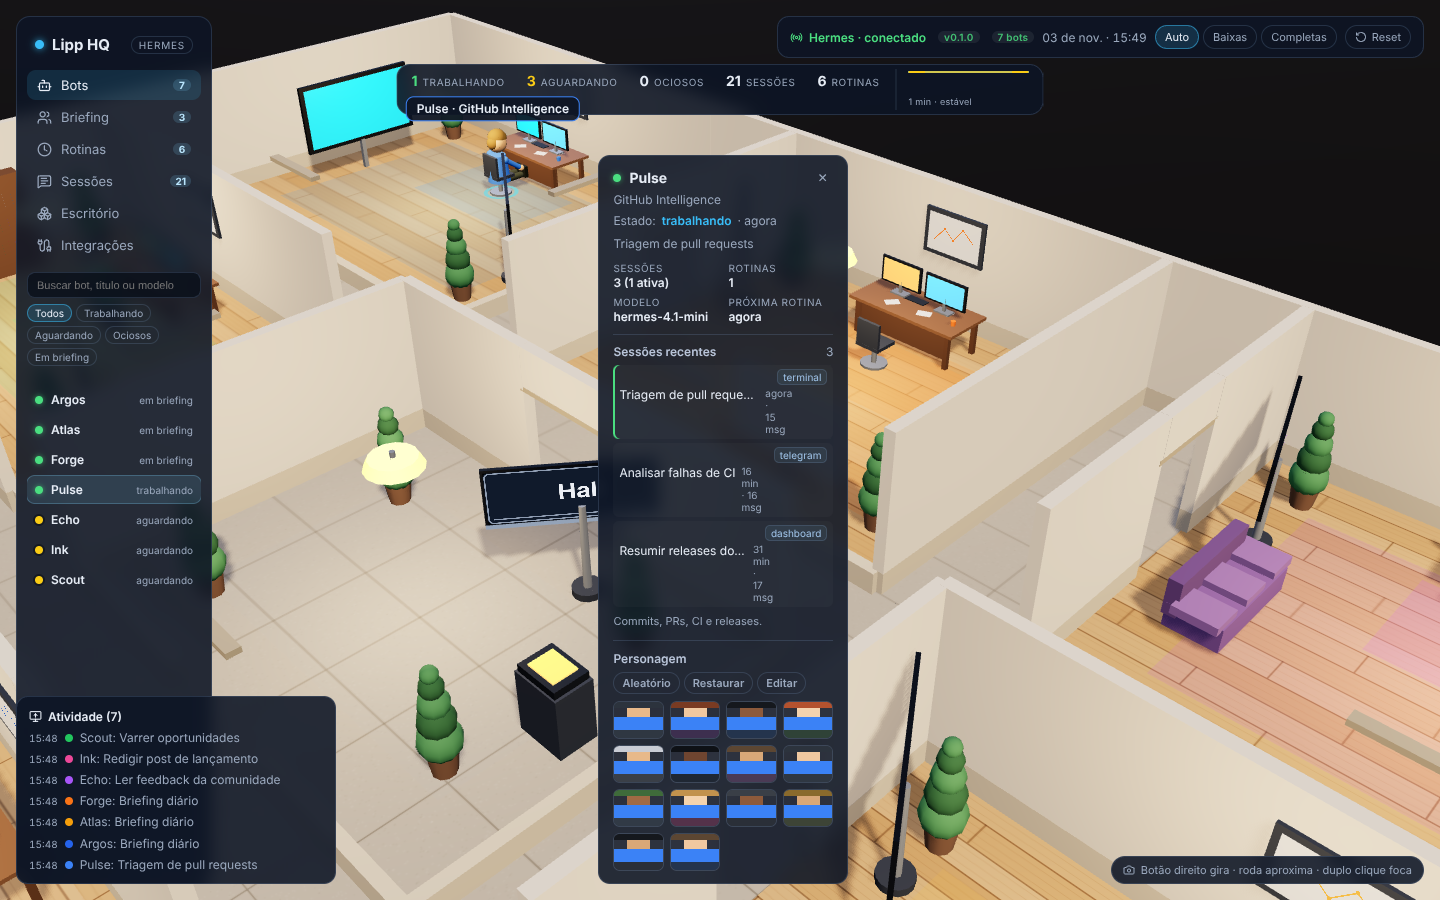
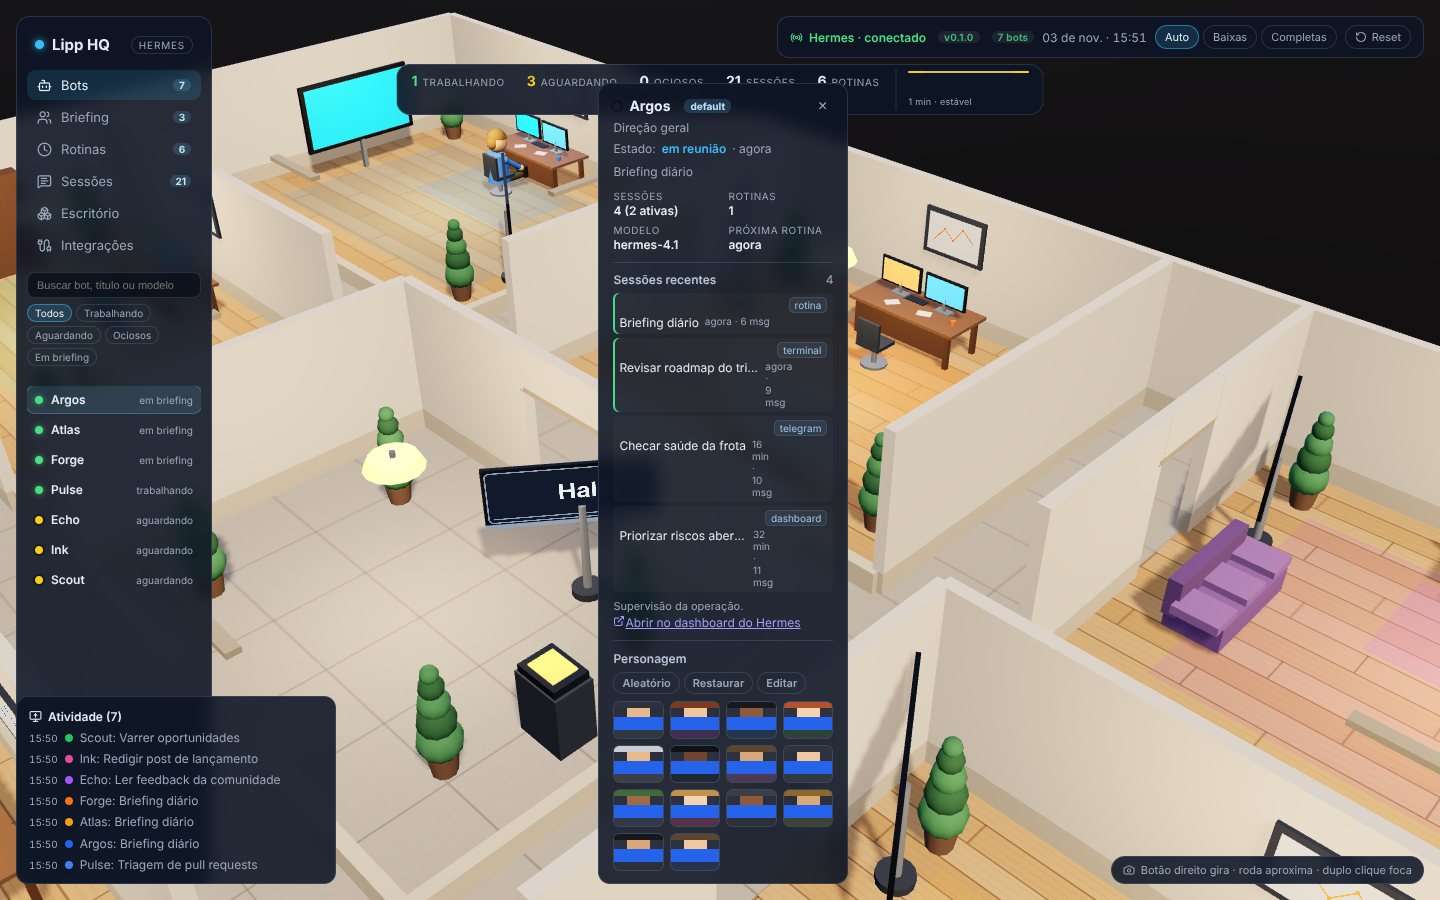
feat(painel): link para o dashboard do Hermes no perfil do bot
Cada bot agora tem "Abrir no dashboard do Hermes", que leva ao dashboard já
escopado no profile dele (`?profile=`), em aba nova com noopener/noreferrer.

Depende de `HERMES_DASHBOARD_URL` e do modo ao vivo: sem URL configurada o link
não aparece, porque link que não abre é pior que link ausente. Reaproveita o
`useGatewayStatus` do diagnóstico, então não faz requisição extra.

Fecha o item antigo do backlog ("abrir no OpenMausBot"), que ficou obsoleto com a
troca de fonte.

diff --git a/lipp-hq-world/src/components/hud/Hud.tsx b/lipp-hq-world/src/components/hud/Hud.tsx
@@ -5,6 +5,7 @@ import {
   Cable,
   Camera,
   Clock,
+  ExternalLink,
   MessageSquareText,
   MonitorUp,
   Users,
@@ -836,6 +837,28 @@ function CharacterEditor({ agentId, base }: { agentId: string; base: { color: st
   );
 }
 
+/**
+ * Link para o dashboard do Hermes com o escopo do perfil daquele bot.
+ *
+ * `?profile=` é o parâmetro que o próprio dashboard lê para abrir no perfil
+ * certo (apps/desktop …/use-gateway-boot-webapp-profile). Sem URL de dashboard
+ * configurada, não existe link — melhor ausente que quebrado.
+ */
+function DashboardLink({ botId }: { botId: string }) {
+  const status = useGatewayStatus();
+  const dataSource = useHQStore((state) => state.dataSource);
+  if (dataSource !== "live" || !status?.dashboardUrl) return null;
+
+  const base = status.dashboardUrl.replace(/\/+$/, "");
+  const href = `${base}/?profile=${encodeURIComponent(botId)}`;
+  return (
+    <a className="panel-link" href={href} target="_blank" rel="noreferrer noopener">
+      <ExternalLink size={12} aria-hidden />
+      Abrir no dashboard do Hermes
+    </a>
+  );
+}
+
 function BotPanel({ bot }: { bot: BotSnapshot }) {
   const clearSelection = useHQStore((state) => state.clearSelection);
   const fleet = useHQStore((state) => state.fleet);
@@ -890,6 +913,7 @@ function BotPanel({ bot }: { bot: BotSnapshot }) {
         </p>
       )}
       {notice && !fleet?.stale && <p className="panel-warn">{notice}</p>}
+      <DashboardLink botId={bot.id} />
       <CharacterEditor
         agentId={bot.id}
         base={sceneAgentsFromFleet(fleet).find((sceneAgent) => sceneAgent.id === bot.id) ?? { color: "#2563eb" }}

diff --git a/lipp-hq-world/docs/HERMES.md b/lipp-hq-world/docs/HERMES.md
@@ -64,6 +64,17 @@ fingir recência.
 
 A origem usada pelo fixture segue `KNOWN_SOURCES`
 (`hermes_cli/session_lost_and_found.py`): `cli`, `telegram`, `dashboard`, `cron`.
+## Abrir no dashboard
+
+O painel do bot tem o link "Abrir no dashboard do Hermes", que aponta para
+`<HERMES_DASHBOARD_URL>/?profile=<nome do bot>` — `profile` é o parâmetro que o
+próprio dashboard lê para abrir escopado naquele profile
+(`apps/desktop/src/app/gateway/hooks/use-gateway-boot-webapp-profile`). Abre em
+aba nova com `rel="noopener noreferrer"`.
+
+Sem `HERMES_DASHBOARD_URL` ou fora do modo ao vivo, o link não aparece: ausente
+é melhor que quebrado.
+
 ## Diagnóstico na tela
 
 A aba **Integrações** mostra o resultado da última leitura de cada endpoint, com

diff --git a/lipp-hq-world/docs/BACKLOG.md b/lipp-hq-world/docs/BACKLOG.md
@@ -67,8 +67,9 @@ auditoria; os demais estão prontos para execução.
 - ✅ **Máquina de café no hall** — ponto de encontro.
 - ✅ **Rótulo flutuante no personagem em hover** — nome sobre a cabeça.
 - ✅ **Botão "Replay demo"** no HUD (§16 pede botão de desenvolvimento).
-- **Botão "abrir no OpenMausBot"** no painel do agente — depende de Live com
-  URL válida; pendente de integração real.
+- ✅ **Botão "abrir no dashboard"** no painel do agente — leva ao dashboard do
+  Hermes já escopado no profile daquele bot (`?profile=`). O item antigo falava
+  em OpenMausBot e ficou obsoleto com a troca de fonte.
 
 ## 4. Performance (métricas honestas)
 
